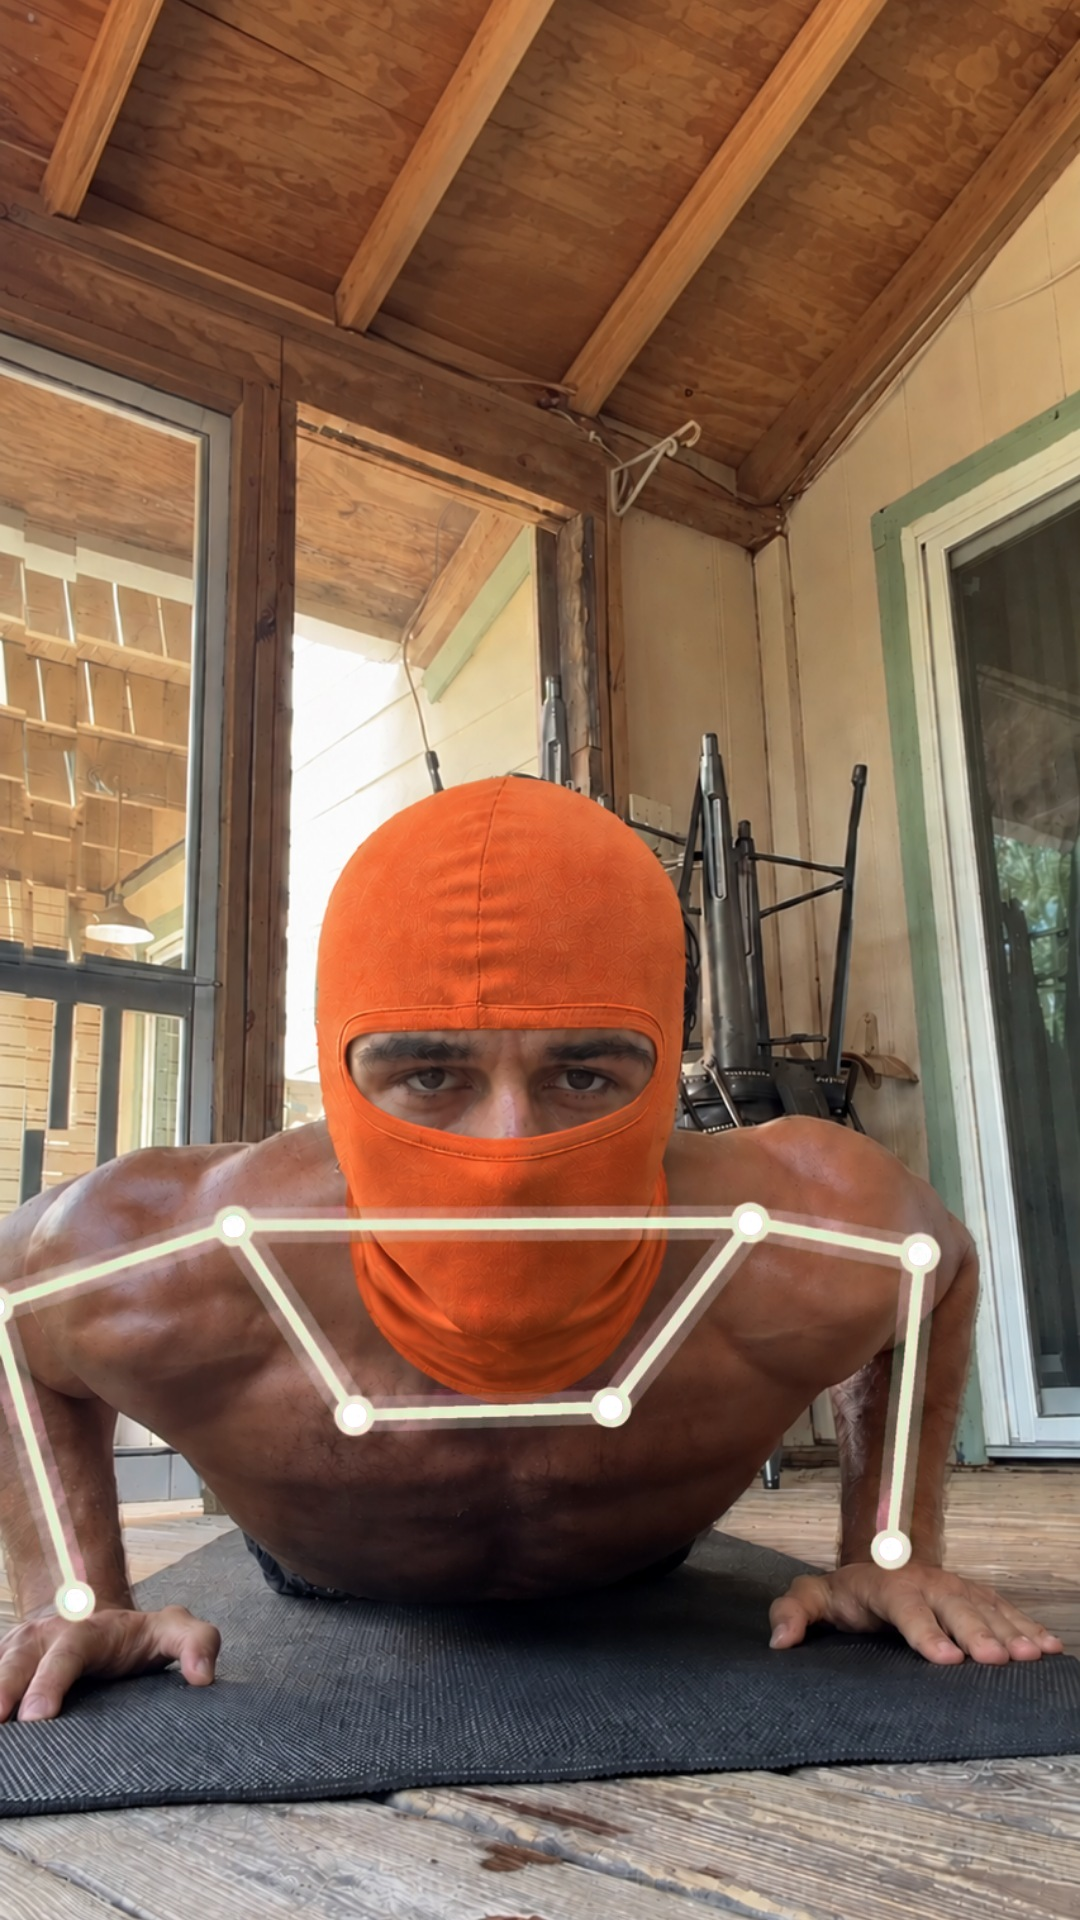
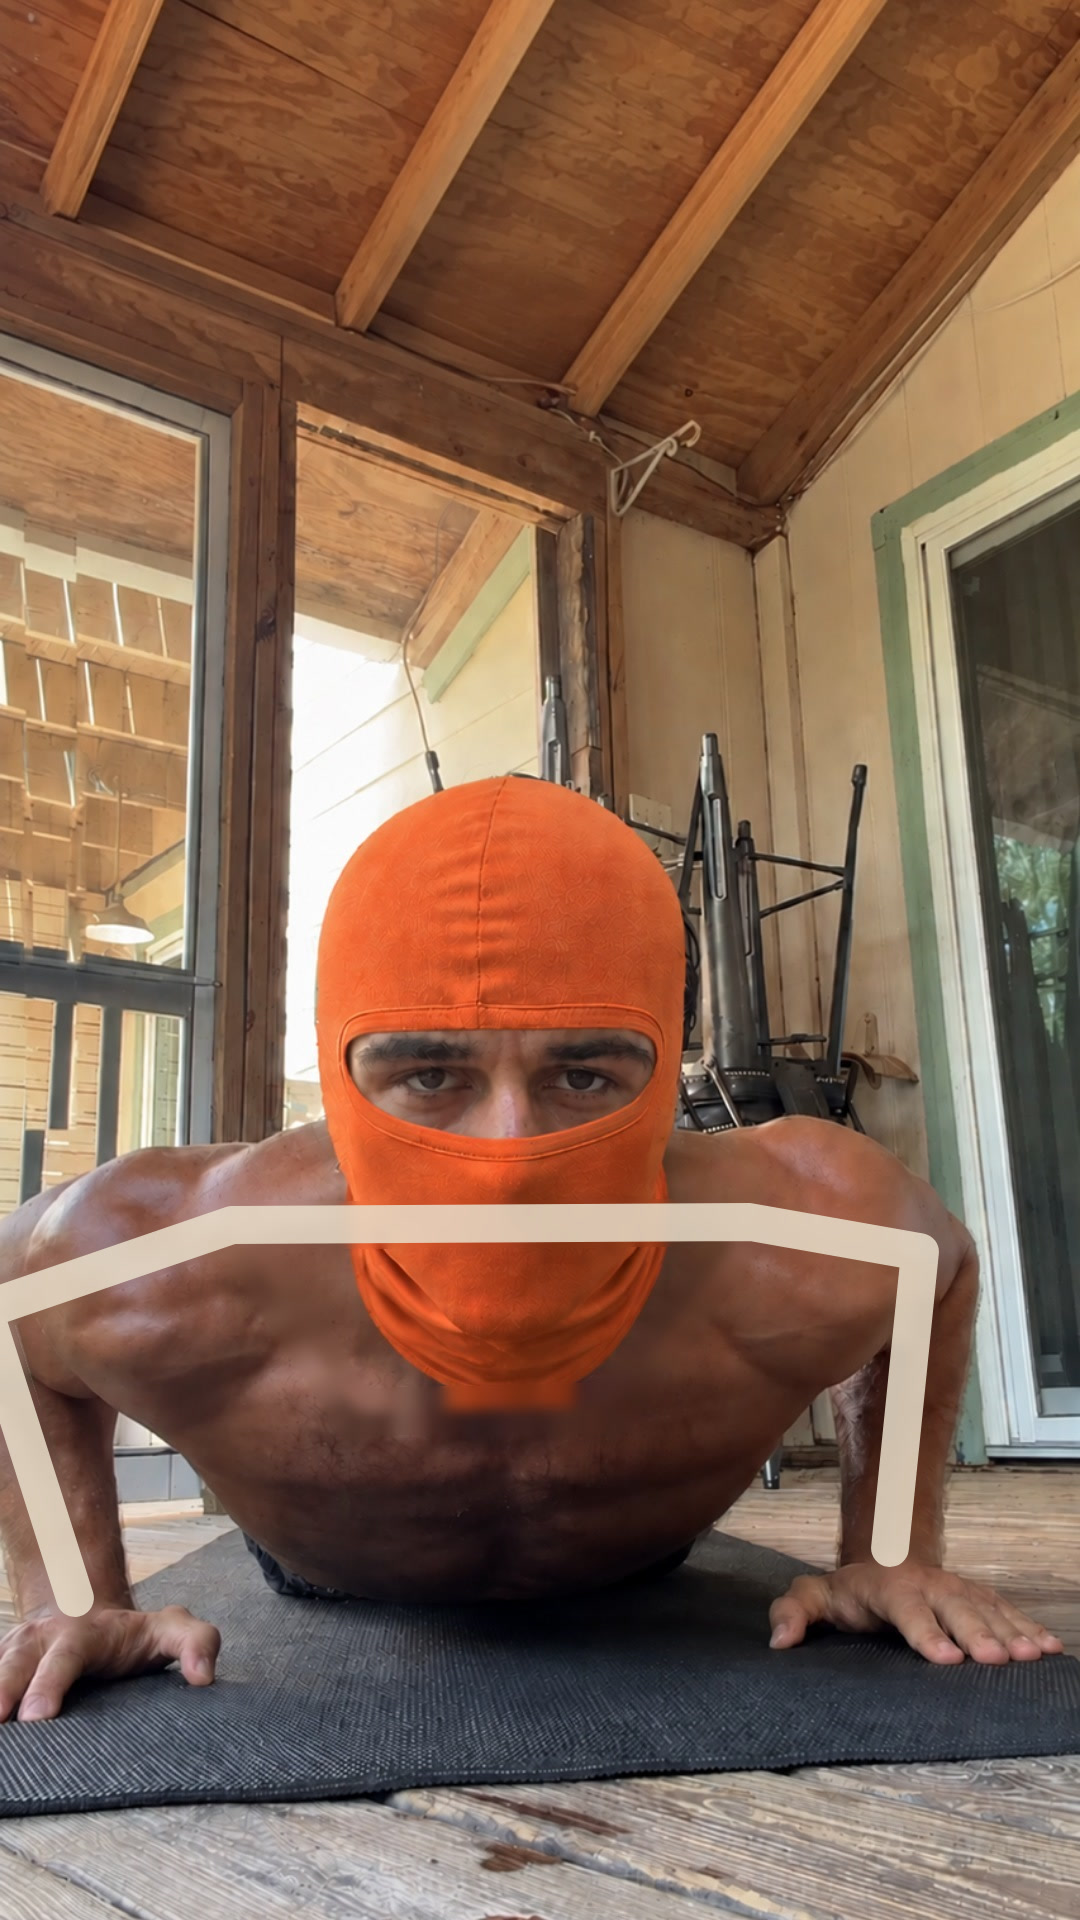
Skeleton: one thick cream line, wrist to wrist over the shoulders
The user's pick (A) from a video they sent: no dots, no chest, the arms
and the bar between them as one round-capped line a thirtieth of the
screen thick, broken where a joint cannot be seen. The store photos are
redrawn the same way, the old skeleton filled out of them.

Changed region(s): [[0.0, 0.625, 0.8861, 0.8438]]

diff --git a/apps/outrepd_flutter/lib/reps/skeleton.dart b/apps/outrepd_flutter/lib/reps/skeleton.dart
@@ -16,25 +16,20 @@ import 'package:flutter/material.dart';
 import '../theme.dart';
 import 'pose.dart';
 
-/// Arms and torso, ending at the hips. No legs: with the phone on the floor
-/// facing the lifter the knees and ankles are hidden in most frames, so the
-/// tracker guesses at them and their bones swung about over the floor; and
-/// the counter never reads them.
-const _bones = <List<Joint>>[
-  [Joint.leftShoulder, Joint.rightShoulder],
-  [Joint.leftShoulder, Joint.leftElbow],
-  [Joint.leftElbow, Joint.leftWrist],
-  [Joint.rightShoulder, Joint.rightElbow],
-  [Joint.rightElbow, Joint.rightWrist],
-  [Joint.leftShoulder, Joint.leftHip],
-  [Joint.rightShoulder, Joint.rightHip],
-  [Joint.leftHip, Joint.rightHip],
+/// One line, wrist to wrist over the shoulders: the arms and the bar between
+/// them, which is all a push-up is made of from the front (the user's pick,
+/// 2026-10-27, after thin bones with dots and the chest drawn in). No dots, no
+/// torso, no legs: with the phone on the floor facing the lifter the hips sit
+/// behind the shoulders and the knees and ankles are hidden in most frames,
+/// so the tracker guesses at them — and the counter never reads them.
+const _line = <Joint>[
+  Joint.leftWrist,
+  Joint.leftElbow,
+  Joint.leftShoulder,
+  Joint.rightShoulder,
+  Joint.rightElbow,
+  Joint.rightWrist,
 ];
-
-/// The joints given a dot: those the bones above join. The nose feeds the
-/// counter but has no bone to it, so its dot would float on the face; the
-/// legs are not drawn at all.
-final _dotted = {for (final bone in _bones) ...bone};
 
 class SkeletonPainter extends CustomPainter {
   SkeletonPainter({
@@ -87,33 +82,40 @@ class SkeletonPainter extends CustomPainter {
       return Offset(x * drawn.width + dx, p.y * drawn.height + dy);
     }
 
-    final bone = Paint()
-      ..color = colour.withValues(alpha: 0.9 * strength)
-      ..strokeWidth = 5
-      ..strokeCap = StrokeCap.round;
+    // Thick enough to read from the floor a metre away: a thirtieth of the
+    // screen, the way the line it was modelled on is drawn.
+    final line = Paint()
+      ..color = colour.withValues(alpha: 0.86 * strength)
+      ..style = PaintingStyle.stroke
+      ..strokeWidth = (size.shortestSide * 0.035).clamp(10.0, 26.0)
+      ..strokeCap = StrokeCap.round
+      ..strokeJoin = StrokeJoin.round;
 
-    final glow = Paint()
-      ..color = colour.withValues(alpha: 0.3 * strength)
-      ..strokeWidth = 14
-      ..strokeCap = StrokeCap.round;
-
-    for (final pair in _bones) {
-      final a = at(pair[0]);
-      final b = at(pair[1]);
-      if (a == null || b == null) continue;
-      canvas.drawLine(a, b, glow);
-      canvas.drawLine(a, b, bone);
+    // One path through every joint the tracker can see, broken where it
+    // cannot: a missing elbow leaves a gap rather than a line cut straight
+    // across from shoulder to wrist.
+    var path = Path();
+    var length = 0;
+    void flush() {
+      if (length >= 2) canvas.drawPath(path, line);
+      path = Path();
+      length = 0;
     }
 
-    final dot = Paint()..color = Colors.white.withValues(alpha: strength);
-    final ring = Paint()..color = colour.withValues(alpha: strength);
-
-    for (final joint in _dotted) {
+    for (final joint in _line) {
       final p = at(joint);
-      if (p == null) continue;
-      canvas.drawCircle(p, 8, ring);
-      canvas.drawCircle(p, 4.5, dot);
+      if (p == null) {
+        flush();
+        continue;
+      }
+      if (length == 0) {
+        path.moveTo(p.dx, p.dy);
+      } else {
+        path.lineTo(p.dx, p.dy);
+      }
+      length++;
     }
+    flush();
   }
 
   @override

diff --git a/apps/outrepd_flutter/test/skeleton_test.dart b/apps/outrepd_flutter/test/skeleton_test.dart
@@ -1,0 +1,59 @@
+/// The skeleton over the camera: one line, wrist to wrist over the shoulders,
+/// broken where the tracker cannot see a joint rather than cut straight
+/// across it.
+library;
+
+import 'package:flutter/material.dart';
+import 'package:flutter_test/flutter_test.dart';
+
+import 'package:outrepd/reps/pose.dart';
+import 'package:outrepd/reps/skeleton.dart';
+
+BodyPose _arms({bool leftElbow = true}) {
+  PosePoint at(double x, double y) => PosePoint(x, y, 0.95);
+  return BodyPose({
+    Joint.nose: at(0.5, 0.45),
+    Joint.leftShoulder: at(0.3, 0.55),
+    Joint.rightShoulder: at(0.7, 0.55),
+    if (leftElbow) Joint.leftElbow: at(0.15, 0.62),
+    Joint.rightElbow: at(0.85, 0.62),
+    Joint.leftWrist: at(0.12, 0.78),
+    Joint.rightWrist: at(0.88, 0.78),
+    Joint.leftHip: at(0.4, 0.62),
+    Joint.rightHip: at(0.6, 0.62),
+  });
+}
+
+Widget _paint(BodyPose pose) => Directionality(
+  textDirection: TextDirection.ltr,
+  child: Center(
+    child: CustomPaint(
+      size: const Size(400, 800),
+      painter: SkeletonPainter(
+        pose: pose,
+        good: true,
+        mirror: false,
+        sourceSize: null,
+      ),
+    ),
+  ),
+);
+
+void main() {
+  testWidgets('one thick line and no dots', (tester) async {
+    await tester.pumpWidget(_paint(_arms()));
+    final painted = find.byType(CustomPaint).last;
+    expect(painted, paints..path());
+    expect(painted, isNot(paints..path()..path()));
+    expect(painted, isNot(paints..circle()));
+  });
+
+  testWidgets('a joint it cannot see breaks the line', (tester) async {
+    await tester.pumpWidget(_paint(_arms(leftElbow: false)));
+    final painted = find.byType(CustomPaint).last;
+    // The left wrist alone is no line; shoulders to the right wrist is one.
+    expect(painted, paints..path());
+    expect(painted, isNot(paints..path()..path()));
+    expect(tester.takeException(), isNull);
+  });
+}
